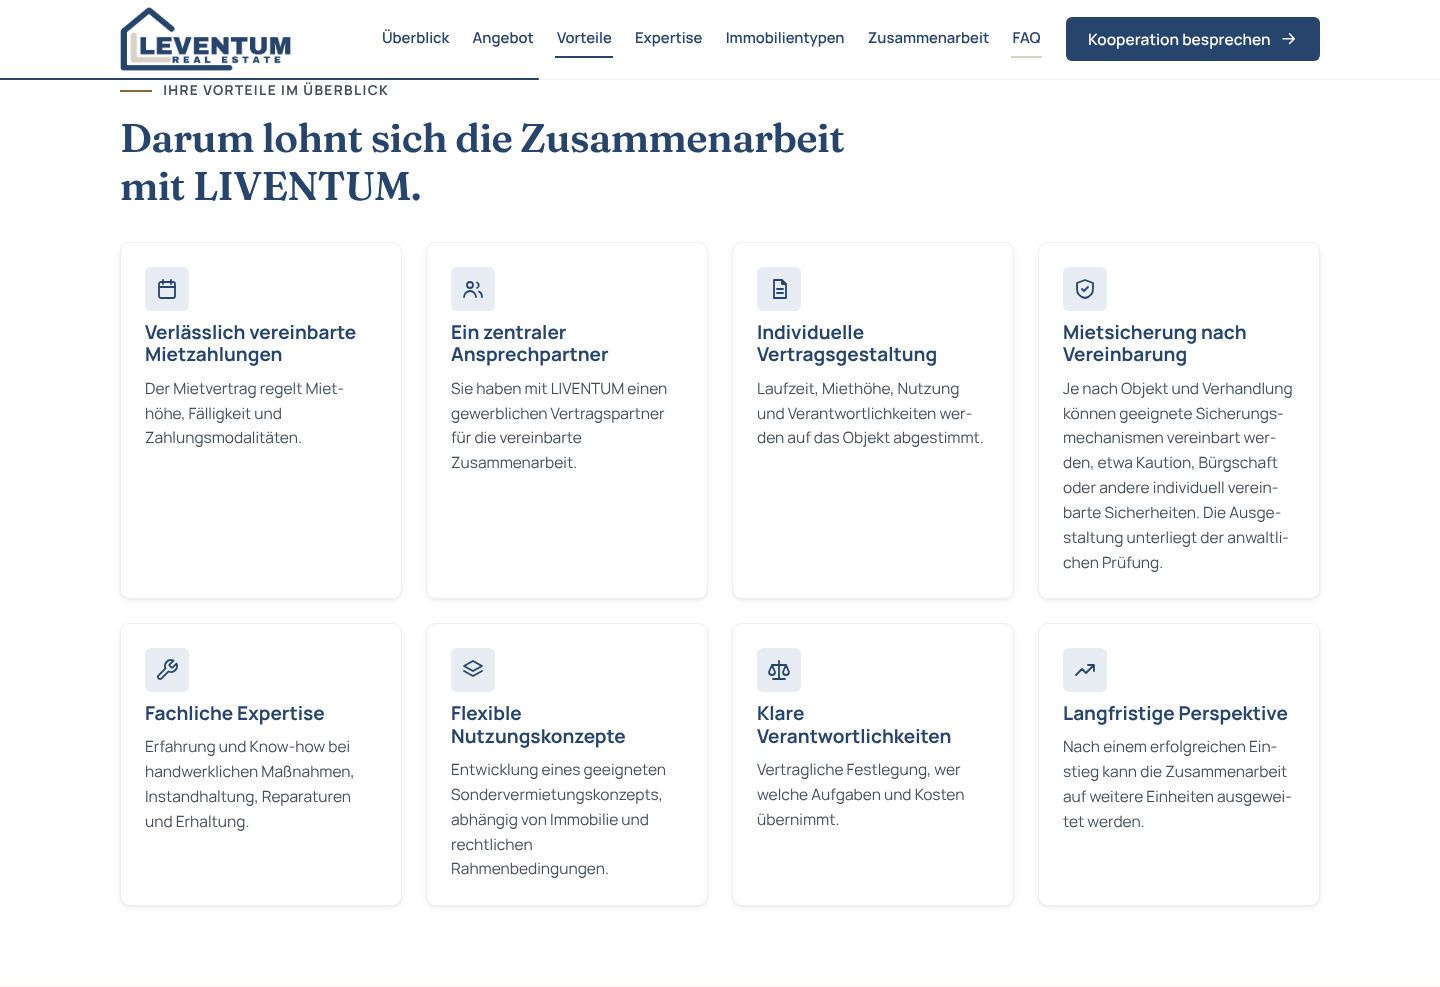
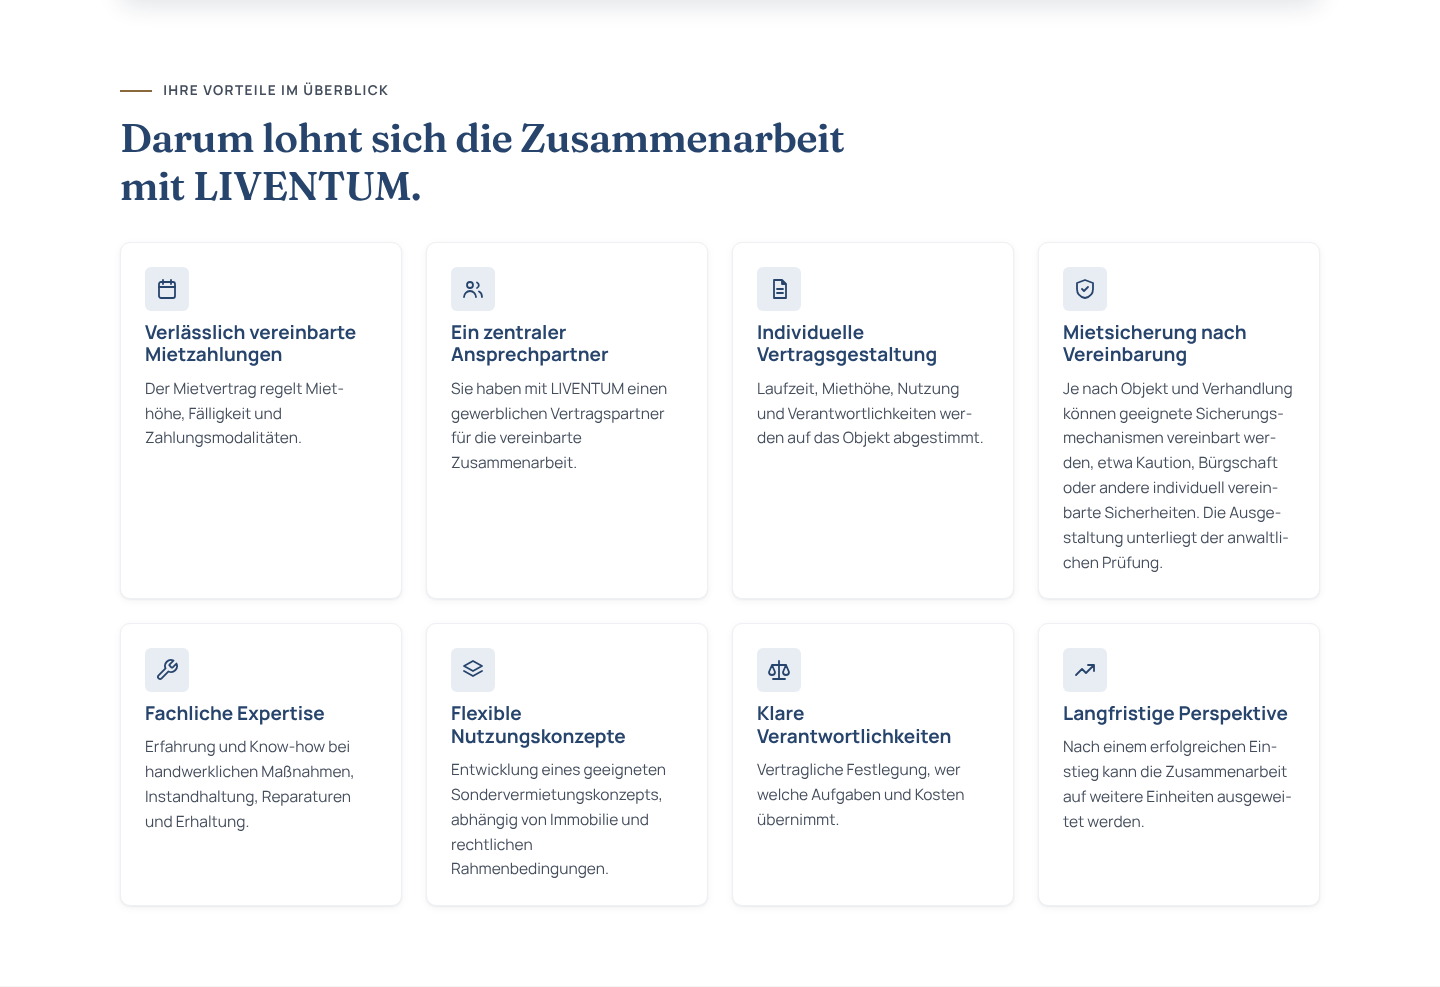
Abschnitte 'Mögliche Herausforderungen' und 'Unser Angebot' entfernt
Claude-Session: https://claude.ai/code/session_01KEcscF8ABiEHPf9rzLQ9PG

Changed region(s): [[0.3438, 0.0, 0.9375, 0.0608], [0.0625, 0.0, 0.2188, 0.0912], [0.25, 0.0304, 0.3125, 0.0608]]

diff --git a/index.html b/index.html
@@ -70,7 +70,6 @@
       <nav class="main-nav" id="main-nav" aria-label="Hauptnavigation">
         <ul>
           <li><a href="#ueberblick">Überblick</a></li>
-          <li><a href="#angebot">Angebot</a></li>
           <li><a href="#vorteile">Vorteile</a></li>
           <li><a href="#expertise">Expertise</a></li>
           <li><a href="#immobilientypen">Immobilientypen</a></li>
@@ -100,7 +99,7 @@
           </ul>
           <div class="btn-row">
             <a class="btn btn-primary btn-lg" href="#kontaktformular" data-cta="hero-primary">Kooperation besprechen <svg class="icon" aria-hidden="true"><use href="#i-arrow"/></svg></a>
-            <a class="btn btn-outline btn-lg" href="#angebot" data-cta="hero-secondary">Unser Angebot ansehen</a>
+            <a class="btn btn-outline btn-lg" href="#modell" data-cta="hero-secondary">Unser Angebot ansehen</a>
           </div>
         </div>
         <div class="hero-visual">
@@ -157,107 +156,7 @@
       </div>
     </section>
 
-    <!-- HERAUSFORDERUNGEN -->
-    <section class="section section-beige" id="herausforderungen" aria-labelledby="challenges-title">
-      <div class="container">
-        <div class="section-head split">
-          <div>
-            <p class="eyebrow">Mögliche Herausforderungen</p>
-            <h2 id="challenges-title">Sie haben Immobilien. Wir übernehmen die Vermietung im vereinbarten Umfang.</h2>
-          </div>
-          <p>Die Vermietung von Immobilien erfordert Zeit, Organisation und eine passende Strategie. LIVENTUM bietet Eigentümern einen zusätzlichen gewerblichen Vertragspartner und entwickelt individuelle Konzepte für geeignete Objekte.</p>
-        </div>
-        <ul class="grid grid-4 card-list">
-          <li class="card">
-            <span class="card-icon"><svg class="icon" aria-hidden="true"><use href="#i-clock"/></svg></span>
-            <h3>Leerstandszeiten</h3>
-            <p>Zeit zwischen Fertigstellung, Ausstattung und erfolgreicher Vermietung.</p>
-          </li>
-          <li class="card">
-            <span class="card-icon"><svg class="icon" aria-hidden="true"><use href="#i-file"/></svg></span>
-            <h3>Vermietungsaufwand</h3>
-            <p>Besichtigungen, Kommunikation, Organisation und laufende Betreuung.</p>
-          </li>
-          <li class="card">
-            <span class="card-icon"><svg class="icon" aria-hidden="true"><use href="#i-wrench"/></svg></span>
-            <h3>Ausstattung und Instandhaltung</h3>
-            <p>Bedarf an Möblierung, kleineren Maßnahmen, Reparaturen und Koordination von Fachkräften.</p>
-          </li>
-          <li class="card">
-            <span class="card-icon"><svg class="icon" aria-hidden="true"><use href="#i-users"/></svg></span>
-            <h3>Unterschiedliche Zielgruppen</h3>
-            <p>Unterschiedliche Anforderungen an Laufzeit, Ausstattung und Nutzung.</p>
-          </li>
-        </ul>
-      </div>
-    </section>
 
-    <!-- ANGEBOT -->
-    <section class="section section-navy" id="angebot" aria-labelledby="offer-title">
-      <div class="container">
-        <div class="section-head">
-          <p class="eyebrow">Unser Angebot</p>
-          <h2 id="offer-title">Ein starker Mietpartner für Ihre Immobilien.</h2>
-          <p>Im Rent-to-Rent-Modell vermieten Sie an LIVENTUM. Wir übernehmen die vertraglich vereinbarten Aufgaben rund um Nutzung, Ausstattung und Weitervermietung.</p>
-        </div>
-        <ol class="offer-grid">
-          <li class="offer-card">
-            <span class="step-badge" aria-hidden="true">1</span>
-            <h3>Gewerbliche Anmietung</h3>
-            <p>LIVENTUM mietet geeignete Wohnungen oder Gewerbeeinheiten auf Grundlage eines individuellen Mietvertrags an.</p>
-            <ul class="check-list">
-              <li>Vereinbarte Mietzahlung</li>
-              <li>Individuell verhandelbare Laufzeit</li>
-              <li>Klar definierte Nutzung</li>
-              <li>Abgestimmte Verantwortlichkeiten</li>
-            </ul>
-          </li>
-          <li class="offer-card">
-            <span class="step-badge" aria-hidden="true">2</span>
-            <h3>Sondervermietungskonzepte</h3>
-            <p>LIVENTUM entwickelt Nutzungskonzepte, die zur Immobilie, Lage und zulässigen Verwendung passen.</p>
-            <ul class="check-list">
-              <li>Möbliertes Wohnen</li>
-              <li>Temporäres Wohnen für beruflich bedingt zeitweise in einer Stadt lebende Personen</li>
-              <li>Projektunterkünfte</li>
-              <li>Weitere geeignete Wohn- oder Gewerbekonzepte</li>
-            </ul>
-            <p class="note">Nicht jede Nutzung ist für jede Immobilie geeignet. Die rechtliche Zulässigkeit wird objektspezifisch geprüft.</p>
-          </li>
-          <li class="offer-card">
-            <span class="step-badge" aria-hidden="true">3</span>
-            <h3>Ausstattung und Möblierung</h3>
-            <p>Auf Wunsch organisiert LIVENTUM die Ausstattung und Möblierung im vertraglich vereinbarten Umfang.</p>
-            <ul class="check-list">
-              <li>Funktionale, zielgruppengerechte Einrichtung</li>
-              <li>Umfang und Kosten werden vorab festgelegt</li>
-            </ul>
-          </li>
-          <li class="offer-card">
-            <span class="step-badge" aria-hidden="true">4</span>
-            <h3>Instandhaltung und Erhaltungsmaßnahmen</h3>
-            <p>LIVENTUM bringt praktische handwerkliche Expertise ein und kann vereinbarte Maßnahmen selbst ausführen oder koordinieren.</p>
-            <ul class="check-list">
-              <li>Koordination von Handwerkern und Dienstleistern</li>
-              <li>Reaktion auf Schäden im vereinbarten Rahmen</li>
-            </ul>
-            <p class="note">Umfang und Verantwortlichkeit für Reparaturen und Erhaltungsmaßnahmen werden individuell vereinbart.</p>
-          </li>
-          <li class="offer-card">
-            <span class="step-badge" aria-hidden="true">5</span>
-            <h3>Operative Betreuung</h3>
-            <p>LIVENTUM übernimmt die vereinbarten Aufgaben der Weitervermietung und laufenden Organisation.</p>
-            <ul class="check-list">
-              <li>Kommunikation mit Endmietern</li>
-              <li>Organisation der Vermietung</li>
-              <li>Koordination von Dienstleistern</li>
-              <li>Abwicklung vereinbarter operativer Aufgaben</li>
-            </ul>
-            <p class="note">Welche Aufgaben konkret dazugehören, richtet sich nach dem Vertrag.</p>
-          </li>
-        </ol>
-      </div>
-    </section>
 
     <!-- VORTEILE -->
     <section class="section" id="vorteile" aria-labelledby="benefits-title">

diff --git a/css/sections.css b/css/sections.css
@@ -53,14 +53,6 @@
 .section-head.split p:not(.eyebrow) { margin: 0; font-size: 1rem; }
 .h2-sm { font-size: clamp(1.5rem, 1.2rem + 1.2vw, 2rem); }
 
-/* Angebot */
-.offer-grid { display: grid; grid-template-columns: repeat(6, minmax(0, 1fr)); gap: var(--space-3); }
-.offer-card { grid-column: span 2; background: #fff; color: var(--grey-900); border-radius: var(--radius-md); padding: var(--space-3); display: flex; flex-direction: column; gap: 0.75rem; }
-.offer-card:nth-child(n+4) { grid-column: span 3; }
-.section-navy .offer-card h3 { color: var(--navy-800); }
-.offer-card > p { font-size: 0.95rem; color: var(--grey-700); }
-.offer-card .note { font-size: 0.86rem; color: var(--grey-700); background: var(--beige-100); border-left: 3px solid var(--navy-800); padding: 0.55rem 0.75rem; border-radius: 0 var(--radius-sm) var(--radius-sm) 0; margin-top: auto; }
-.step-badge { width: 36px; height: 36px; border-radius: 50%; background: var(--navy-800); color: #fff; display: grid; place-items: center; font-weight: 700; }
 
 /* Expertise */
 .expertise-grid { display: grid; grid-template-columns: 1.1fr 1fr; gap: var(--space-5); align-items: center; }
@@ -129,8 +121,6 @@
   .contact-grid, .expertise-grid { grid-template-columns: 1fr; }
   .expertise-figure { aspect-ratio: 16 / 10; }
   .section-head.split { grid-template-columns: 1fr; gap: var(--space-2); }
-  .offer-card, .offer-card:nth-child(n+4) { grid-column: span 3; }
-  .offer-card:nth-child(5) { grid-column: span 6; }
 }
 @media (max-width: 960px) {
   .nav-toggle { display: grid; }
@@ -156,8 +146,6 @@
   .hero-figure { aspect-ratio: 16 / 11; }
   .section { padding: var(--space-5) 0; }
   .grid-3, .grid-4 { grid-template-columns: 1fr; }
-  .offer-grid { grid-template-columns: minmax(0, 1fr); }
-  .offer-card, .offer-card:nth-child(n+4), .offer-card:nth-child(5) { grid-column: auto; }
   .process { grid-template-columns: 1fr 1fr; }
   .field-row { grid-template-columns: 1fr; }
   .btn-row .btn { width: 100%; }

diff --git a/js/main.js b/js/main.js
@@ -41,7 +41,7 @@
   var py = 0;
   if (motionOK && 'IntersectionObserver' in window) {
     document.documentElement.classList.add('reveal-on');
-    var sel = '.model-panel, .section-head, .card, .offer-card, .process li, .type-card, .service-list li, .expertise-figure, .table-wrap, .legal-note, .accordion, .form-card, .contact-card, .matrix-block .section-head';
+    var sel = '.model-panel, .section-head, .card, .process li, .type-card, .service-list li, .expertise-figure, .table-wrap, .legal-note, .accordion, .form-card, .contact-card, .matrix-block .section-head';
     var els = document.querySelectorAll(sel);
     var rio = new IntersectionObserver(function (entries) {
       entries.forEach(function (en) {
@@ -89,7 +89,7 @@
   var map = {};
   links.forEach(function (l) { map[l.getAttribute('href').slice(1)] = l; });
   // Abschnitte ohne eigenen Menüpunkt werden dem passenden Punkt zugeordnet
-  var alias = { modell: 'ueberblick', herausforderungen: 'ueberblick', vereinbarungen: 'zusammenarbeit', kontakt: null };
+  var alias = { modell: 'ueberblick', vereinbarungen: 'zusammenarbeit', kontakt: null };
   function setActive(id) {
     var key = id in alias ? alias[id] : id;
     links.forEach(function (l) { l.removeAttribute('aria-current'); });

diff --git a/css/base.css b/css/base.css
@@ -31,4 +31,4 @@ section[id], [id="kontaktformular"], [id="kontaktdaten"] { scroll-margin-top: ca
 .skip-link { position: absolute; left: 8px; top: -60px; z-index: 100; background: var(--navy-800); color: #fff; padding: 10px 16px; border-radius: var(--radius-sm); }
 .skip-link:focus { top: 8px; }
 
-h3, .card p, .offer-card, .type-body, .matrix td { hyphens: auto; }
+h3, .card p, .type-body, .matrix td { hyphens: auto; }
